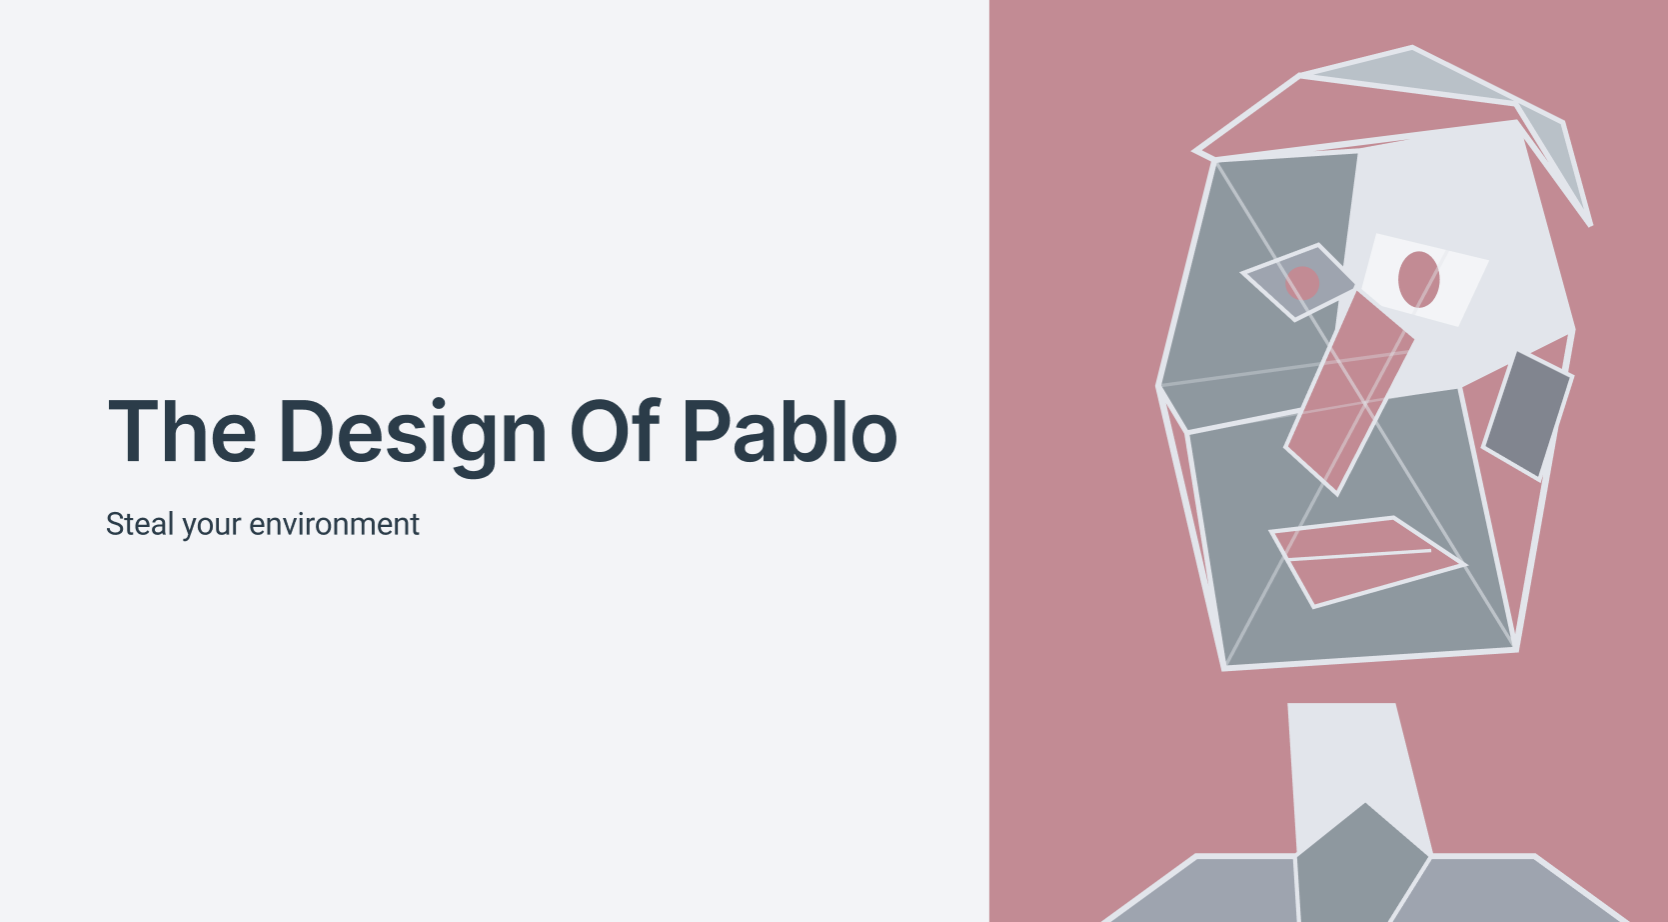
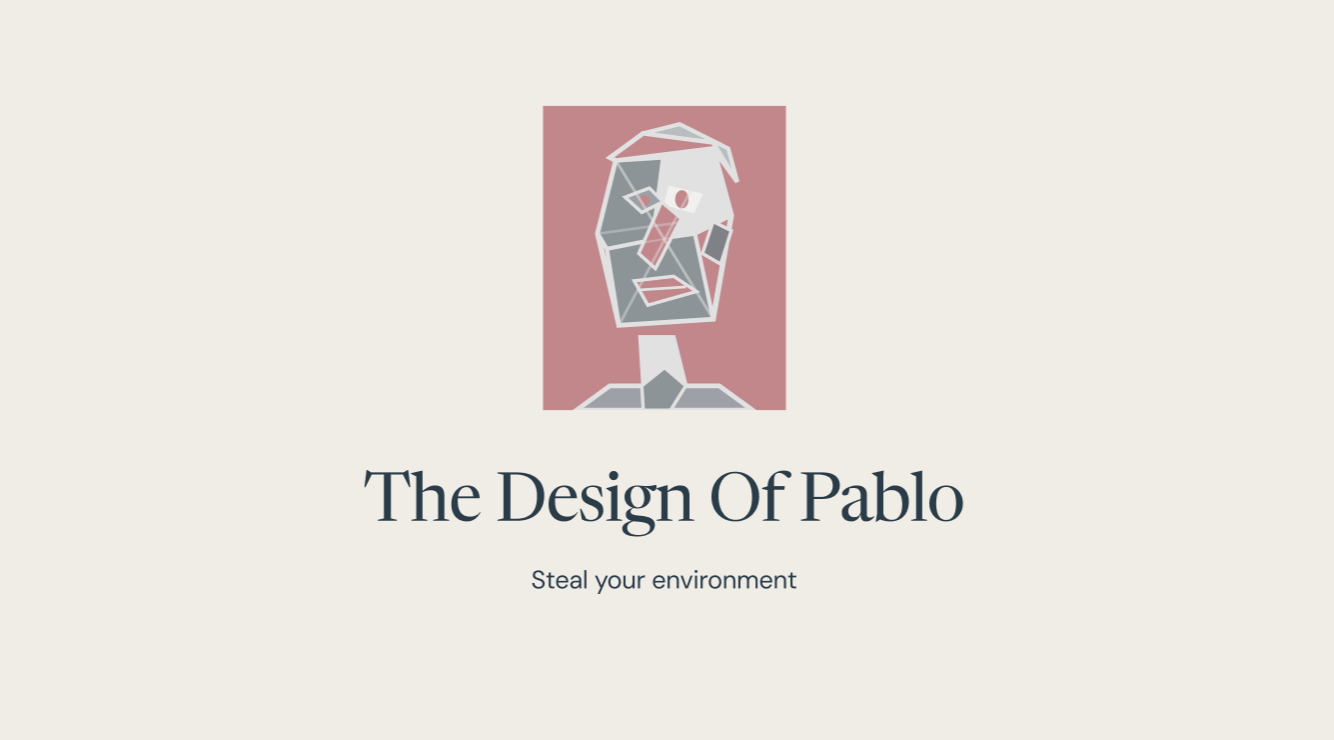
updated cover photos

diff --git a/projects.js b/projects.js
@@ -41,10 +41,10 @@ const projectsData = [
         role: "CEO",
         year: "2022",
         category: "design hardware software visuals",
-        image: "assets/amethyst_system.png",
+        image: "assets/amethyst_system_cover.png",
         link: "www.pilleve.com",
         detail: {
-            heroImage: "",
+            heroImage: "assets/amethyst_system_cover.png",
             summary: "A connected product system bridging monitoring tools and clinical care support.",
             sections: [
                 {